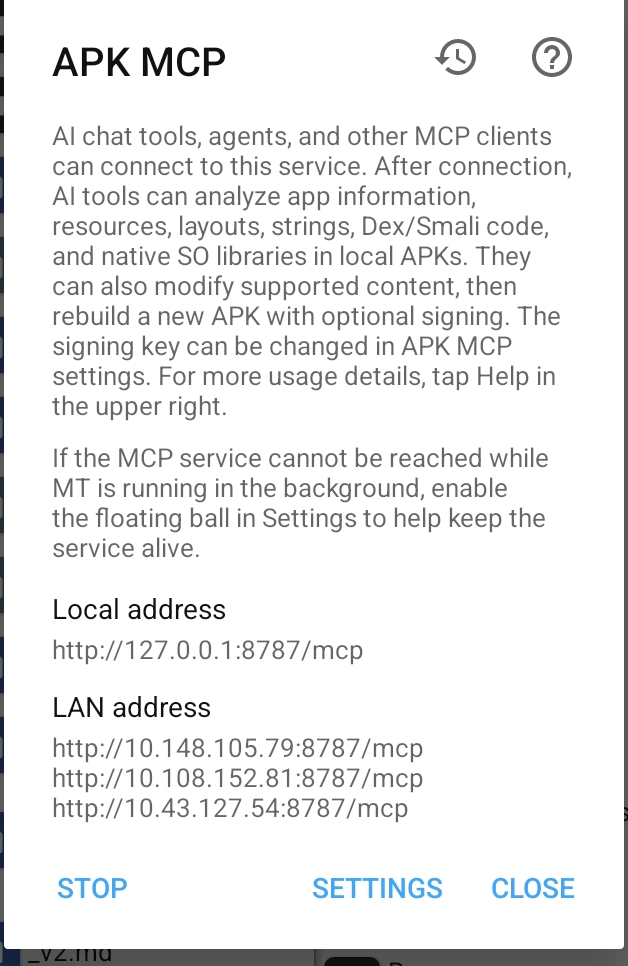
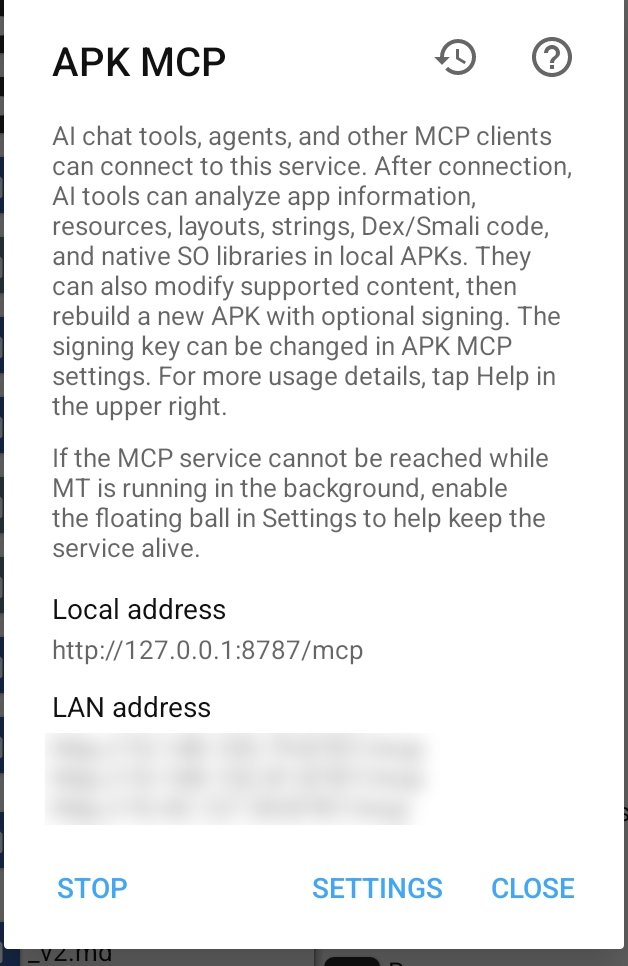
docs: move MT Manager guide into docs/, fix broken cross-links

Changed region(s): [[0.0908, 0.7453, 0.6656, 0.8696]]

diff --git a/docs/MT_MANAGER.md b/docs/MT_MANAGER.md
@@ -1,0 +1,80 @@
+# MT Manager APK MCP Setup
+
+Setup for the `apkmcp` agent - HexForge's client for MT Manager's built-in
+"APK MCP" service (Android only). Written against MT Manager's actual UI;
+if your version's wording differs, [MT Manager's official
+site](https://mt2.cn/) is the source of truth over this page.
+
+Typical setup: Gateway (in Termux) and MT Manager run on the same phone and
+talk over loopback. For the rest of the Android setup, see
+[`SETUP.md`](SETUP.md#running-on-android-termux--mt-manager).
+
+## 1. Find it
+
+In MT Manager, open the tools/menu drawer. **APK MCP** sits between
+**Terminal Simulator** and **Activity Record** (a paperclip-style icon):
+
+![MT Manager tools menu showing APK MCP](images/mt-manager-tools-menu.jpg)
+
+Tapping it opens the APK MCP dialog. Before the service starts, both
+addresses read `Service not started`, and the buttons are **START**,
+**SETTINGS**, **CLOSE**:
+
+![APK MCP dialog before starting the service](images/mt-manager-apk-mcp-not-started.jpg)
+
+## 2. Configure it (tap SETTINGS first)
+
+Set these before your first **START** - the operation directory can't be
+changed while APK MCP is running:
+
+![APK MCP Settings screen](images/mt-manager-apk-mcp-settings.jpg)
+
+| Setting | What to do |
+|---|---|
+| **MCP operation directory** | The root for every `path` the `apkmcp` agent sends. `open` / `list_available_apks` paths are **relative to this directory**; absolute paths are rejected ([details](AGENTS.md#apkmcp)). Point it at your APKs, e.g. `/storage/emulated/0/MT2/apks`. Tap `...` to browse. |
+| **Enable floating ball** | **Turn this on** for anything beyond a quick one-off call. Off by default. See the note below. |
+| **Port** | Default `8787`, matching the agent's default `baseUrl` (`http://127.0.0.1:8787/mcp`). Leave it unless you have a real conflict - changing it means setting `baseUrl` in every `apkmcp` task payload. |
+| **Recently used workspaces to retain** | Default `5`. How many opened APKs MT keeps warm. Unrelated to HexForge workspaces - same name, different apps. |
+| **APK SIGNING SETTINGS** | The key MT uses when `mt_apk_build` re-signs a rebuilt APK. Same key as MT Manager's own **Signing Key** tool. |
+
+**Why the floating ball matters.** Android battery management can pause MT
+Manager once it's backgrounded, which silently kills the MCP service. The
+Gateway then gets a connection-refused error that looks like a HexForge
+problem but isn't. The floating ball is MT's own workaround: a persistent
+on-screen element that keeps the app (and APK MCP) alive in the
+background. It is the most common reason `apkmcp` calls fail
+intermittently on a real device. Its sub-option, *stick to the edge after
+3s of inactivity*, is grayed out until the ball is enabled.
+
+Tap **OK** to save.
+
+## 3. Start it
+
+Back on the APK MCP dialog, tap **START**. Both addresses populate, and
+the buttons become **STOP**, **SETTINGS**, **CLOSE**:
+
+![APK MCP dialog while the service is running](images/mt-manager-apk-mcp-running.jpg)
+
+- **Local address** - `http://127.0.0.1:8787/mcp`. This is what the Gateway
+  uses (same device, loopback), matching `apkmcp.agent.ts`'s default
+  `baseUrl`.
+- **LAN address** - one line per network interface, e.g.
+  `http://192.168.x.x:8787/mcp`. Only relevant if the Gateway runs on a
+  *different* device than MT Manager, which isn't the default setup.
+
+## 4. Verify from HexForge
+
+```bash
+curl -X POST http://localhost:8080/workspaces/<id>/tasks \
+  -H "Content-Type: application/json" \
+  -d '{"agent": "apkmcp", "operation": "list_available_apks", "payload": {}}'
+```
+
+## Troubleshooting
+
+| Symptom | Check |
+|---|---|
+| Connection refused, but APK MCP shows as running on the phone | Enable the **floating ball** (step 2) before debugging the Gateway config. |
+| Path rejected on `open` | Use a path **relative** to the MCP operation directory; `list_available_apks` shows valid ones. |
+| Can't change the operation directory | Tap **STOP** first - it's locked while the service runs. |
+| Port changed and calls now fail | Set `baseUrl` in each `apkmcp` task payload, or set the port back to `8787`. |

diff --git a/CONTRIBUTING.md b/CONTRIBUTING.md
@@ -2,10 +2,10 @@
 
 ## Before you start
 
-Read the README, specifically: [Getting started](README.md#getting-started),
-[Project layout](README.md#project-layout), and whichever feature area
-you're touching - each engine/agent/provider has its own section with the
-design rationale, not just usage docs.
+Read the README's [Getting started](README.md#getting-started), the
+[project structure](docs/PROJECT_STRUCTURE.md), and the `docs/` page for
+whichever feature area you're touching - each engine/agent/provider has
+its own page with the design rationale, not just usage docs.
 
 ## Setup
 
@@ -36,12 +36,12 @@ with a minimal local setup.
 ## The two most common ways to extend this
 
 **Adding a new tool integration (a new MCP agent):** see
-[MCP agents](README.md#mcp-agents) for the pattern every existing one
+[`docs/AGENTS.md`](docs/AGENTS.md) for the pattern every existing one
 follows (`execFileAsync` + `friendlyExecError` from
 `modules/mcp/agents/shared/exec-error.ts` for anything that shells out to
 a CLI tool), then register it in `modules/mcp/orchestrator.ts`. If it's
 something you don't want in core (a niche tool, something with unusual
-dependencies), the [Plugin System](README.md#plugin-system) is very
+dependencies), the [Plugin System](docs/PLUGINS.md) is very
 likely the better fit - `plugins/installed/example-strings/` is a
 complete, working template.
 
@@ -57,7 +57,7 @@ double-checking rather than assuming from memory.
 
 ## Code style
 
-No linter/formatter configured yet (see Roadmap) - match the existing
+No linter/formatter is configured yet - match the existing
 style in whichever file you're editing. Comments should explain *why*,
 not restate *what* the code already says - and if you're changing
 behavior a comment describes, update or remove that comment in the same

diff --git a/docs/AGENTS.md b/docs/AGENTS.md
@@ -178,8 +178,8 @@ APKiD, not duplicated and drifted out of sync here.
 ### apkmcp
 
 A generic Model Context Protocol client with convenience operations
-built for MT Manager's built-in "APK MCP" service (Android only - see
-`docs/SETUP.md` and `MT_MANAGER_MCP_SETUP.md` for setup). Default target
+built for MT Manager's built-in "APK MCP" service (Android only - setup
+in [`MT_MANAGER.md`](MT_MANAGER.md)). Default target
 `http://127.0.0.1:8787/mcp`; override with `baseUrl` in the payload.
 
 | operation | payload fields | maps to |
